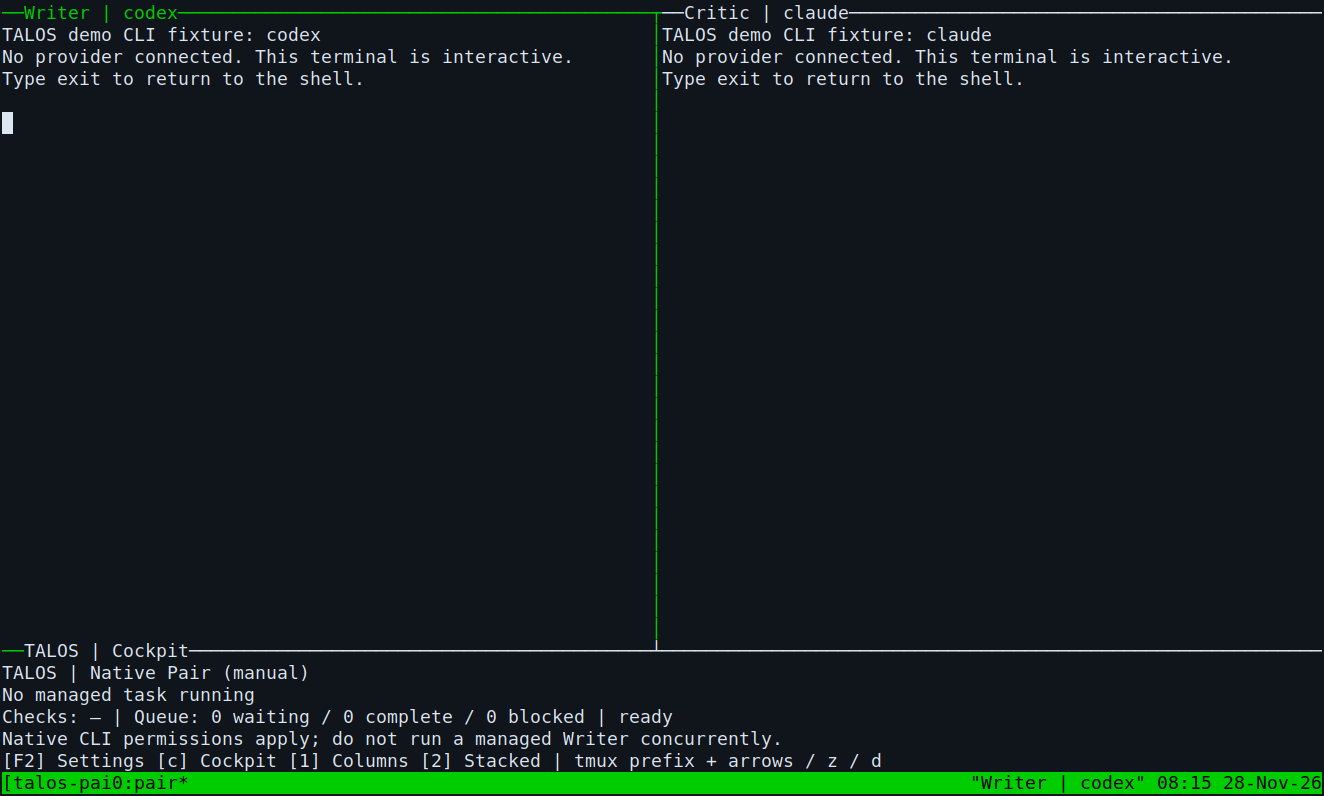
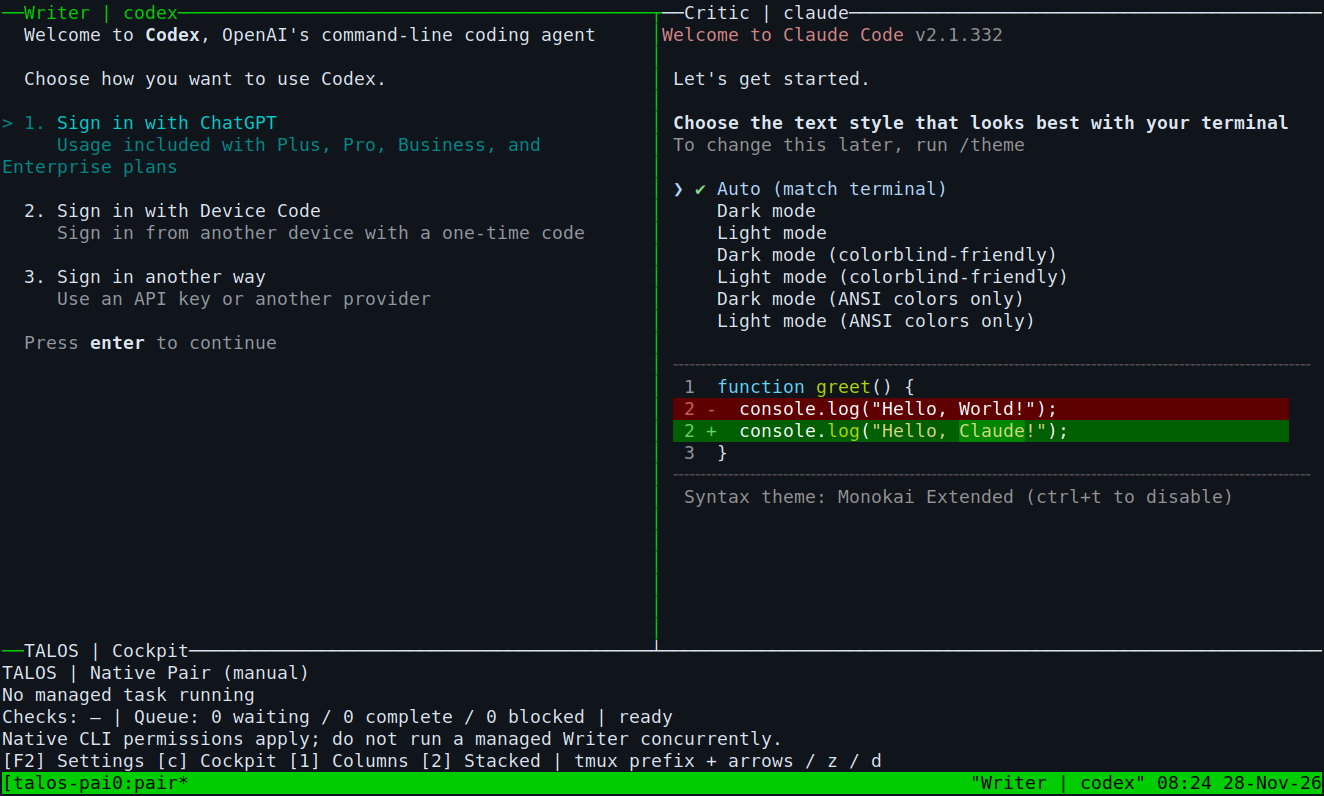
docs: replace fixture captures with original CLI screenshots

diff --git a/docs/tasks.md b/docs/tasks.md
@@ -274,7 +274,7 @@ Dependency: R6–R8.
 | ID | Status | Task | Exit criteria |
 |---|---|---|---|
 | T23.1 | in progress | Native settings and first-run selection | F2 in the status pane opens a separate settings window; selects installed roles, rescans available CLIs, and configures managed limits. Native model configuration stays in the original CLIs. CI pending. |
-| T23.2 | done | Pane lifecycle and layout | Single-role restart and layout switching passed CI run 46121898401 on macOS/Linux. PR #3 merged as cfceab1. Actual workspace and settings screenshots captured in CI run 46124854600 with test CLIs. |
+| T23.2 | done | Pane lifecycle and layout | Single-role restart and layout switching passed CI run 46121898401 on macOS/Linux. PR #3 merged as cfceab1. Actual workspace and settings screenshots captured in CI run 46125505202 with official CLI startup screens. |
 | T23.3 | planned | Config consistency | Validate project checks and Git policy, support main and master throughout publication, and distinguish saved settings from live panes. |
 
 ## Required end-to-end scenarios from the original request

diff --git a/README.md b/README.md
@@ -15,8 +15,8 @@
 ## Native workspace
 
 <div align="center">
-  <img src="docs/media/native-workspace.png" width="960" alt="Actual TALOS tmux workspace with Writer and Critic terminals and compact status panel">
-  <p><sub>Actual TALOS development preview running in tmux/xterm. The two test CLI fixtures are interactive but do not connect to a provider.</sub></p>
+  <img src="docs/media/native-workspace.png" width="960" alt="Actual TALOS tmux workspace with original Codex and Claude Code startup screens and compact status panel">
+  <p><sub>Actual TALOS development preview in tmux/xterm, running official Codex and Claude Code. First-launch screens are shown before account sign-in.</sub></p>
 </div>
 
 TALOS runs the original Writer and Critic CLIs in a persistent tmux session. The agent terminals occupy the main work area; a compact TALOS pane shows recorded task state and provides access to settings and the managed cockpit. Models, reasoning, authentication, and provider permissions belong to the original CLIs.

diff --git a/docs/state.md b/docs/state.md
@@ -21,9 +21,10 @@ real tmux restart acceptance. PR #3 is ready; merge is pending authorization.
 The follow-up layout slice saves the original columns layout and switches to
 stacked panes with a compact status pane; no process is restarted. CI run
 46121898401 passed on macOS and Linux, including layout and PID preservation;
-PR #3 merged as cfceab1. CI run 46124854600 captured the real tmux/xterm
-workspace and F2 settings window using explicit test CLI fixtures. These
-captures do not establish native provider or SSH acceptance.
+PR #3 merged as cfceab1. CI run 46125505202 captured the real tmux/xterm
+workspace and F2 settings window with official Codex and Claude Code binaries,
+before authentication. These captures establish native startup, not inference,
+provider-account acceptance, or SSH reconnect acceptance.
 
 ### R22 — Native Pair workspace (in progress)
 

diff --git a/docs/operator-runbook.md b/docs/operator-runbook.md
@@ -44,7 +44,7 @@ The installer verifies the downloaded archive’s checksum and defaults to `$HOM
 
 ### Experimental native workspace
 
-![Actual native workspace with test CLI fixtures](media/native-workspace.png)
+![Actual native workspace with original Codex and Claude Code startup screens](media/native-workspace.png)
 
 `talos attach` opens the original Writer and Critic CLI terminals inside a
 persistent tmux session. In its compact status pane, F2 opens settings and
